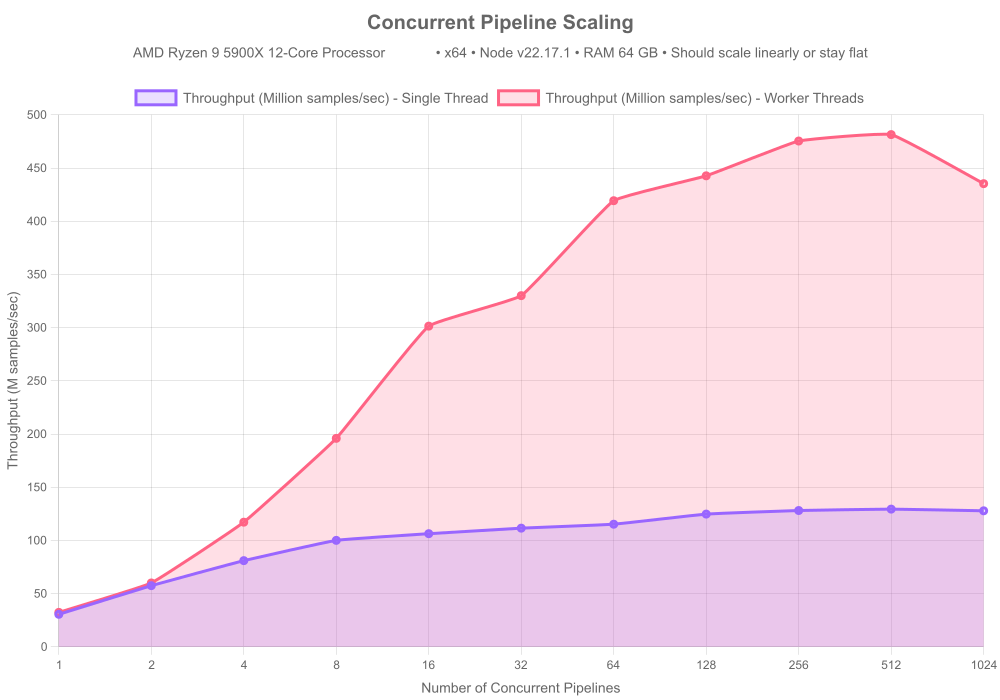
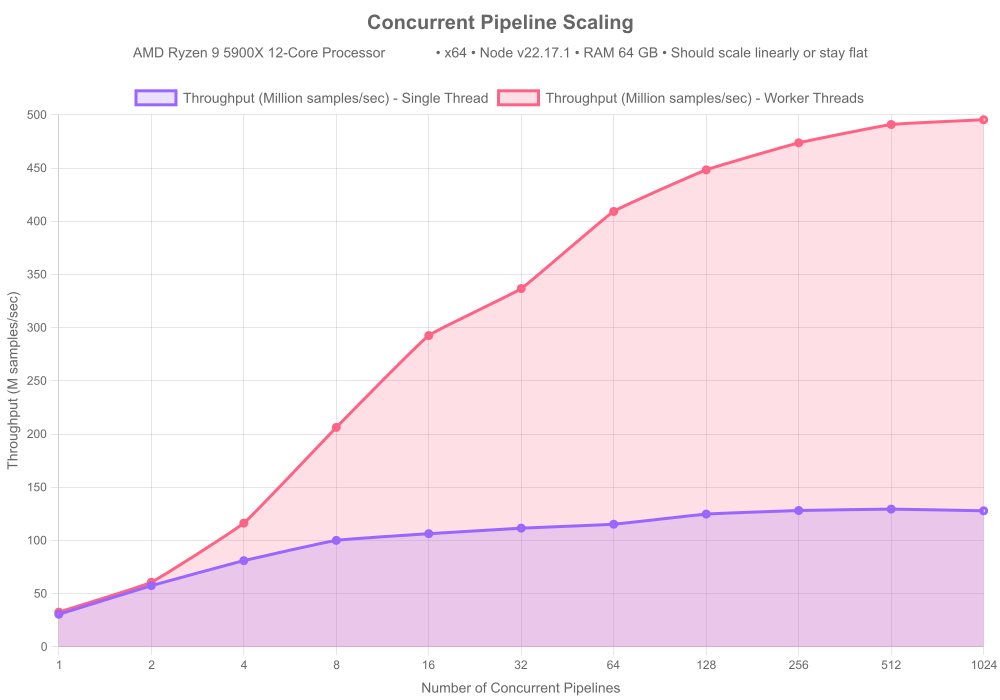
Refactor cleanup logic in concurrency worker and update profiling results for AMD Ryzen 9 5900X

diff --git a/benchmarks/concurrency-worker.js b/benchmarks/concurrency-worker.js
@@ -45,10 +45,10 @@ pipeline
 // Notify parent thread that worker is initialized
 parentPort.postMessage({ type: "ready" });
 
-// // Clean up on exit
-// process.on("exit", () => {
-//   pipeline.dispose();
-// });
+// Clean up on exit
+process.on("exit", () => {
+  pipeline.dispose();
+});
 
 // -----------------------------------------------------------------------------
 // Main synchronous processing loop

diff --git a/reports/BENCHMARKS-amd-ryzen-9-5900x-12-core-processor.md b/reports/BENCHMARKS-amd-ryzen-9-5900x-12-core-processor.md
@@ -301,17 +301,17 @@ Testing throughput with multiple independent pipelines:
 | Single Thread | 256 | 128.1M samples/sec | 133.239 ms | 1.6% |
 | Single Thread | 512 | 129.4M samples/sec | 267.488 ms | 0.8% |
 | Single Thread | 1024 | 127.8M samples/sec | 543.818 ms | 0.4% |
-| Worker Threads | 1 | 32.4M samples/sec | 2.099 ms | 100.0% |
-| Worker Threads | 2 | 60.0M samples/sec | 2.346 ms | 185.4% |
-| Worker Threads | 4 | 117.1M samples/sec | 2.455 ms | 361.9% |
-| Worker Threads | 8 | 195.9M samples/sec | 2.972 ms | 605.4% |
-| Worker Threads | 16 | 301.4M samples/sec | 3.766 ms | 931.2% |
-| Worker Threads | 32 | 330.0M samples/sec | 7.183 ms | 1019.8% |
-| Worker Threads | 64 | 419.3M samples/sec | 11.892 ms | 1295.5% |
-| Worker Threads | 128 | 442.7M samples/sec | 21.013 ms | 1367.8% |
-| Worker Threads | 256 | 475.4M samples/sec | 36.875 ms | 1468.8% |
-| Worker Threads | 512 | 481.4M samples/sec | 71.820 ms | 1487.5% |
-| Worker Threads | 1024 | 435.3M samples/sec | 189.265 ms | 1345.0% |
+| Worker Threads | 1 | 32.6M samples/sec | 2.112 ms | 100.0% |
+| Worker Threads | 2 | 60.7M samples/sec | 2.371 ms | 186.0% |
+| Worker Threads | 4 | 116.3M samples/sec | 2.527 ms | 356.3% |
+| Worker Threads | 8 | 206.2M samples/sec | 2.663 ms | 632.0% |
+| Worker Threads | 16 | 292.5M samples/sec | 4.321 ms | 896.6% |
+| Worker Threads | 32 | 336.7M samples/sec | 7.218 ms | 1032.1% |
+| Worker Threads | 64 | 409.2M samples/sec | 12.902 ms | 1254.1% |
+| Worker Threads | 128 | 448.3M samples/sec | 19.590 ms | 1374.0% |
+| Worker Threads | 256 | 473.7M samples/sec | 36.929 ms | 1451.9% |
+| Worker Threads | 512 | 490.9M samples/sec | 70.549 ms | 1504.6% |
+| Worker Threads | 1024 | 495.4M samples/sec | 141.098 ms | 1518.4% |
 
 **Key Insights:**
 - **4.2x throughput increase** from 1 to 1024 pipelines
@@ -520,5 +520,5 @@ Measuring safety margin between processing time and buffer duration:
 ---
 
 **Generated by:** dspx benchmark suite v1.0  
-**Date:** 2025-12-05T19:24:44.458Z  
+**Date:** 2025-12-05T19:45:51.182Z  
 **Runtime:** Node.js v22.17.1
